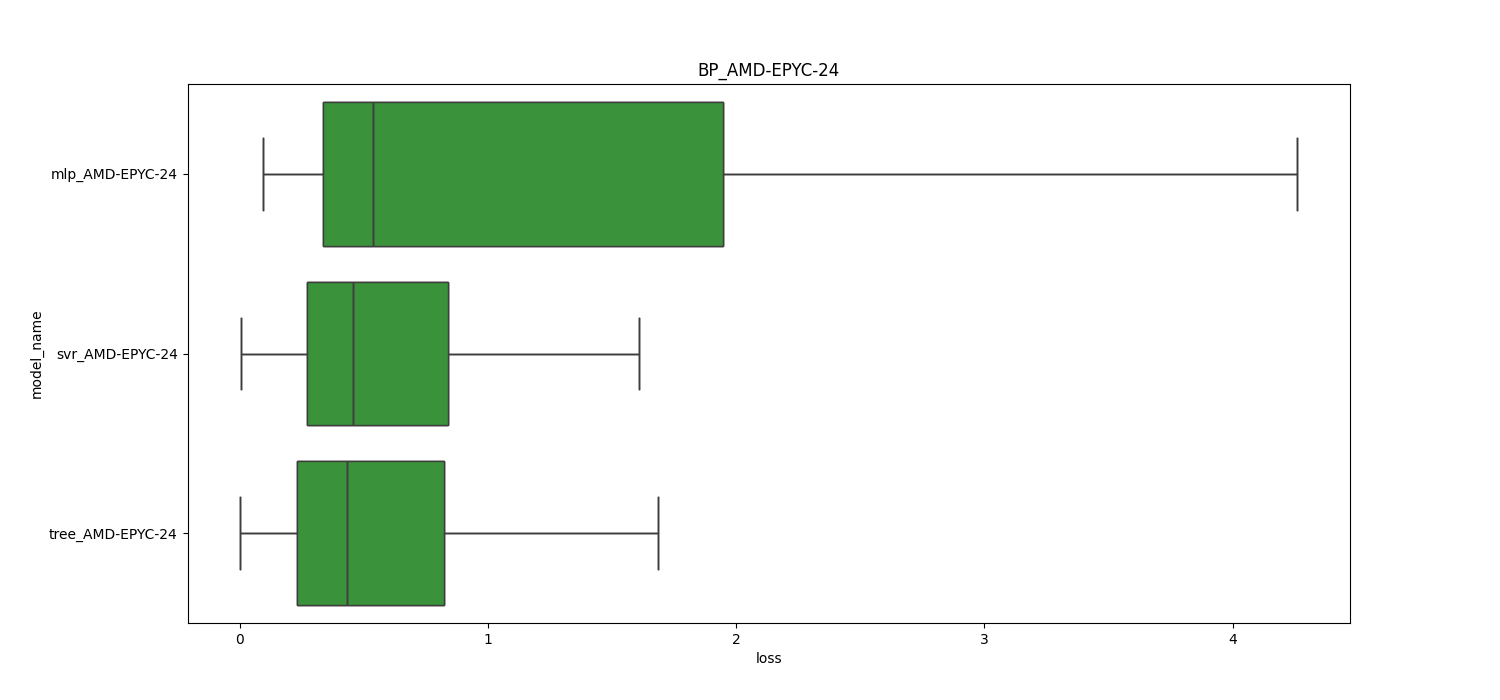
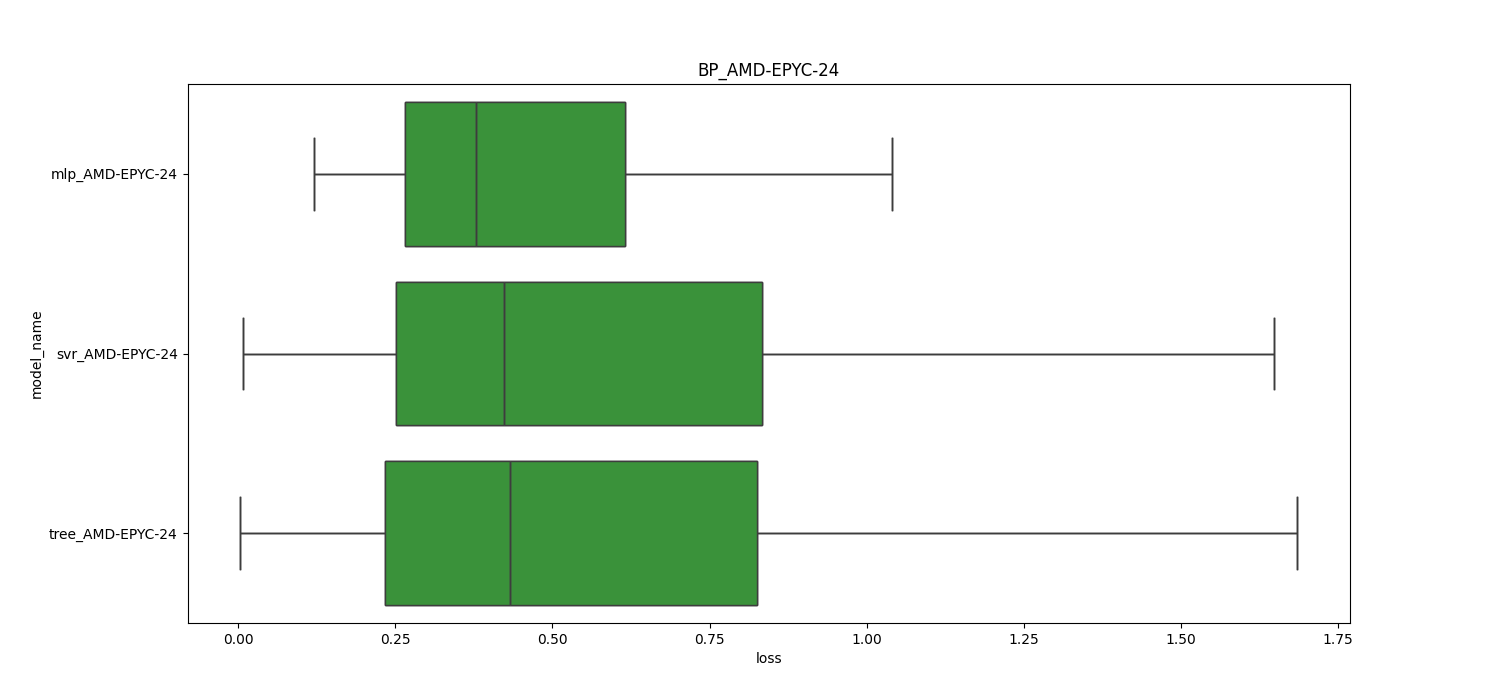
Adding boxplots for the 5% split of the artificial dataset

diff --git a/Performance_predictors/main.py b/Performance_predictors/main.py
@@ -80,8 +80,13 @@ if __name__ == "__main__":
                 model_name_lst.append("{}_{}_SC".format(model, system_used))
                 csv_path_validation_larger = g.DATA_PATH + "/validation/all_format/all_format_{}_{}_than_cache.csv".format(system_used, "larger")
                 csv_path_validation_smaller = g.DATA_PATH + "/validation/all_format/all_format_{}_{}_than_cache.csv".format(system_used, "smaller")
+                
+
                 validation_dataset_larger = dataReader.SparseMatrixDataset(csv_file=csv_path_validation_larger, using_implementation_split=False)
                 validation_dataset_smaller = dataReader.SparseMatrixDataset(csv_file=csv_path_validation_smaller, using_implementation_split=False)
+
+                
+                
                 if model == "mlp":
                     model_name_larger = "{}_{}epochs_larger_than_cache".format(model, MLP_globals.nb_epochs)
                     model_name_smaller = "{}_{}epochs_smaller_than_cache".format(model, MLP_globals.nb_epochs)
@@ -103,6 +108,7 @@ if __name__ == "__main__":
                                                         model_name_smaller,
                                                         system_used,
                                                         "None")
+
 
                     model_lst.append(tempModelLarger)
                     model_lst.append(tempModelSmaller)
@@ -138,12 +144,37 @@ if __name__ == "__main__":
         else:
             print("Plotting performance for {} without cache split".format(system_used))
             model_name_lst : list = list()
+            model_name_artificial_lst : list = list() # Model name list for the 5% split of the artificial dataset
             model_lst : list = list()
+            model_artificial_lst : list = list() # Model list for the 5% split of the artificial dataset
             validation_dataset_lst : list[dataReader.SparseMatrixDataset] = list()
+            validation_dataset_artificial_lst : list[dataReader.SparseMatrixDataset] = list() # Dataset list for the 5% split of the artificial dataset
+
+            
+            
             for model in g.models:
                 model_name_lst.append("{}_{}".format(model, system_used))
                 csv_path_validation = g.DATA_PATH + "/validation/all_format/all_format_{}.csv".format(system_used)
                 validation_dataset = dataReader.SparseMatrixDataset(csv_file=csv_path_validation, using_implementation_split=False)
+
+                csv_path_artificial = g.DATA_PATH + "/all_format/all_format_{}.csv".format(system_used)
+                dataset = dataReader.SparseMatrixDataset(csv_file=csv_path_artificial, using_implementation_split=False)
+                    
+                # Doing 5% split of the artificial dataset
+                split_validation_artificial = 0.05
+                shuffle_dataset = True
+                random_seed = 42
+                dataset_size = len(dataset)
+                indices = list(range(dataset_size))
+
+                split  = int(np.floor(split_validation_artificial * dataset_size))
+                if shuffle_dataset:
+                    np.random.seed(random_seed)
+                    np.random.shuffle(indices)
+                _, validation_artificial_indices = indices[split:], indices[:split]
+                validation_artificial_dataset : dataReader.SparseMatrixDataset = dataReader.SparseMatrixDataset(dataframe=dataset.dataframe.iloc[validation_artificial_indices],
+                                                                                                                using_implementation_split=False)
+
                 if model == "mlp":
                     model_name_mlp = "{}_{}epochs".format(model, MLP_globals.nb_epochs)
                     tempModelMlp = runners.load_mlp_model(MLP_globals.activation_fn,
@@ -154,24 +185,35 @@ if __name__ == "__main__":
                                                           model_name_mlp,
                                                           system_used,
                                                           "None")
+                    
                     model_lst.append(tempModelMlp)
+                    model_artificial_lst.append(tempModelMlp)
                     validation_dataset_lst.append(validation_dataset)
+                    validation_dataset_artificial_lst.append(validation_artificial_dataset)
                 elif model == "svr":
                     model_name_svr = "svr_gflops"
                     tempModelSvr = runners.load_svr_model(model_name_svr, system_used, "None")
                     model_lst.append(tempModelSvr)
+                    model_artificial_lst.append(tempModelSvr)
                     validation_dataset_lst.append(validation_dataset)
+                    validation_dataset_artificial_lst.append(validation_artificial_dataset)
                 elif model == "tree":
                     model_name_tree = "tree_gflops"
                     tempModelTree = runners.load_tree_model(model_name_tree, system_used, "None")
                     model_lst.append(tempModelTree)
+                    model_artificial_lst.append(tempModelTree)
                     validation_dataset_lst.append(validation_dataset)
+                    validation_dataset_artificial_lst.append(validation_artificial_dataset)
             save_path = "./Performance_Summary/"
             graph_name = "BP_{}".format(system_used)
+            graph_names = ["BP_{}".format(system_used), "BP_artificial_dataset_{}".format(system_used)]
             
-            runners.plot_performance(model_lst, validation_dataset_lst, model_name_lst, save_path, graph_name, True, False)
-            runners.plot_performance(model_lst, validation_dataset_lst, model_name_lst, save_path, graph_name, False, False)
-            runners.plot_performance(model_lst, validation_dataset_lst, model_name_lst, save_path, graph_name, False, True)
+            dataset_lst = [validation_dataset_lst, validation_dataset_artificial_lst]
+
+            for i in range(len(dataset_lst)):
+                runners.plot_performance(model_lst, dataset_lst[i], model_name_lst, save_path, graph_names[i], True, False)
+                runners.plot_performance(model_lst, dataset_lst[i], model_name_lst, save_path, graph_names[i], False, False)
+                runners.plot_performance(model_lst, dataset_lst[i], model_name_lst, save_path, graph_names[i], False, True)
 
 
     if load_model :
